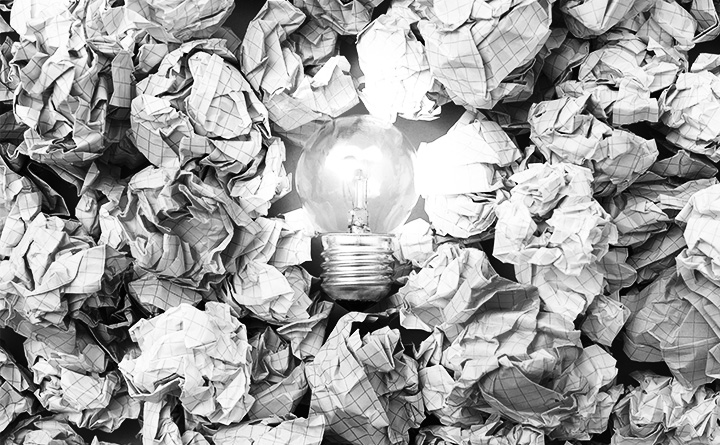
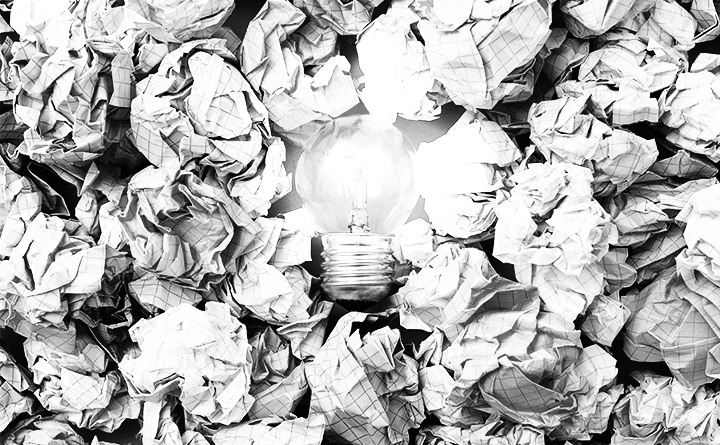
Правки [<title>].

diff --git a/html/step_1.html b/html/step_1.html
@@ -2,7 +2,7 @@
 <html lang="ru">
 <head>
     <meta charset="utf-8">
-    <title>МЕТА. 1/6. Задаём опорные ключевые слова для подбора</title>
+    <title>1/6. Задаём опорные ключевые слова для подбора</title>
     <meta name="Description" content="Подбирайте ключевые слова на русском, результат получайте на английском.
     Составной подбор, удаление дубликатов, задание очерёдности, ручной перевод."/>
     <meta name="Keywords" content="ключевые слова фотографий, фотостоки подбор слов, подбор ключевых слов для фотостоков,

diff --git a/html/translation_request.html b/html/translation_request.html
@@ -2,7 +2,7 @@
 <html lang="ru">
 <head>
     <meta charset="utf-8">
-    <title>МЕТА. Очередь заявки на перевод</title>
+    <title>МЕТА. Очередь заявок на перевод</title>
     <meta name="viewport" content="width=device-width, initial-scale=1.0">
     <link href="../css/native.css"
           rel="stylesheet"
@@ -21,7 +21,7 @@
     <a href="../step_1.php" title="Начать подбирать ключевые слова">К подбору</a>
     <br>
     <br>
-    <h1 class="bold">Очередь на перевод</h1>
+    <h1 class="bold">Очередь заявок на перевод</h1>
     <br>
     <br>
     <br>

diff --git a/html/step_2.html b/html/step_2.html
@@ -2,7 +2,7 @@
 <html lang="ru">
 <head>
     <meta charset="utf-8">
-    <title>МЕТА. 2/6. Выбираем из подобранных и добавляем свои</title>
+    <title>2/6. Выбираем из подобранных и добавляем свои</title>
     <meta name="viewport" content="width=device-width, initial-scale=1.0">
     <link href="../css/native.css"
           rel="stylesheet"

diff --git a/html/step_4.html b/html/step_4.html
@@ -2,7 +2,7 @@
 <html lang="ru">
 <head>
     <meta charset="utf-8">
-    <title>МЕТА. 4/6. Определяем очерёдность ключевых слов</title>
+    <title>4/6. Определяем очерёдность ключевых слов</title>
     <meta name="viewport" content="width=device-width, initial-scale=1.0">
     <link href="../css/native.css"
           rel="stylesheet"

diff --git a/html/step_3.html b/html/step_3.html
@@ -2,7 +2,7 @@
 <html lang="ru">
 <head>
     <meta charset="utf-8">
-    <title>МЕТА. 3/6. Получаем текущий результат списком</title>
+    <title>3/6. Получаем текущий результат списком</title>
     <meta name="viewport" content="width=device-width, initial-scale=1.0">
     <link href="../css/native.css"
           rel="stylesheet"

diff --git a/html/step_6.html b/html/step_6.html
@@ -2,7 +2,7 @@
 <html lang="ru">
 <head>
     <meta charset="utf-8">
-    <title>МЕТА. 6/6. Результат строками</title>
+    <title>6/6. Результат строками</title>
     <meta name="viewport" content="width=device-width, initial-scale=1.0">
     <link href="../css/native.css"
           rel="stylesheet"

diff --git a/html/step_5.html b/html/step_5.html
@@ -2,7 +2,7 @@
 <html lang="ru">
 <head>
     <meta charset="utf-8">
-    <title>МЕТА. 5/6. Выбираем перевод</title>
+    <title>5/6. Выбираем перевод</title>
     <meta name="viewport" content="width=device-width, initial-scale=1.0">
     <link href="../css/native.css"
           rel="stylesheet"
